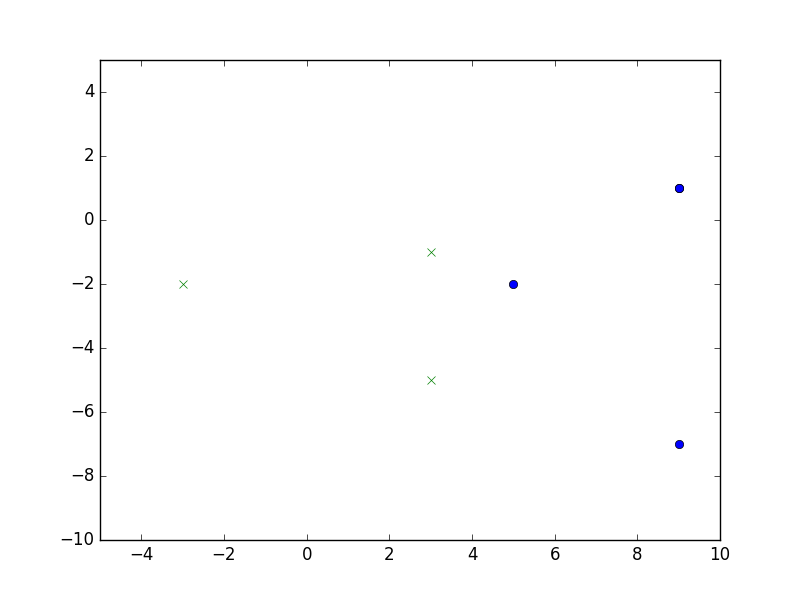
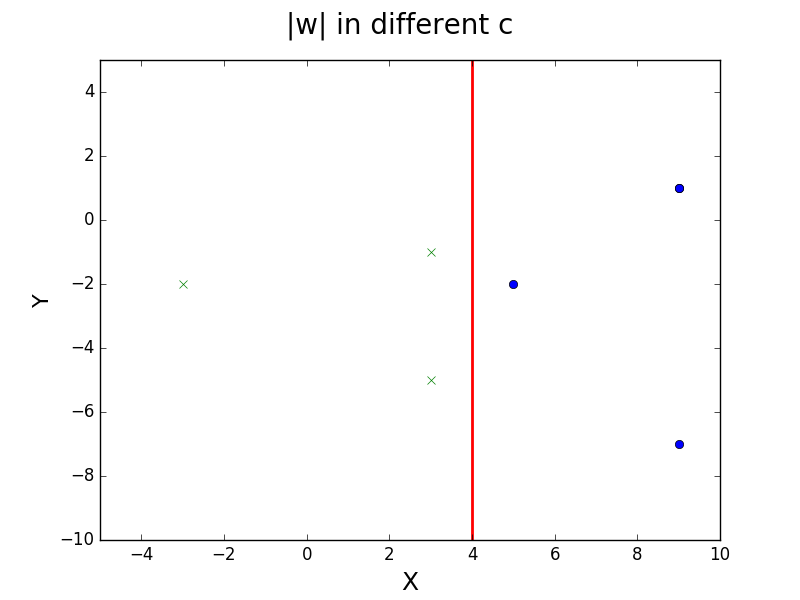
update problem1

diff --git a/hw1/problem1/problem1.py b/hw1/problem1/problem1.py
@@ -12,7 +12,12 @@ xpos = [(gen_z1(i[0],i[1]),gen_z2(i[0],i[1])) for (i,j) in zip(x,y) if j == 1 ]
 xneg = [(gen_z1(i[0],i[1]),gen_z2(i[0],i[1])) for (i,j) in zip(x,y) if j == -1 ]
 print (xpos)
 
+fig = plt.figure()
+fig.suptitle("|w| in different c",fontsize=20)
+plt.xlabel('X',fontsize = 18)
+plt.ylabel('Y', fontsize = 16)
 plt.axis([-5,10,-10,5])
 plt.plot([z1 for z1,z2 in xpos ],[z2 for z1,z2 in xpos],'o')
 plt.plot([z1 for z1,z2 in xneg ],[z2 for z1,z2 in xneg],'x')
+plt.plot([4,4,4,4,4],[-10,-2,0,2,5],color="red",lw=2)
 plt.show()
